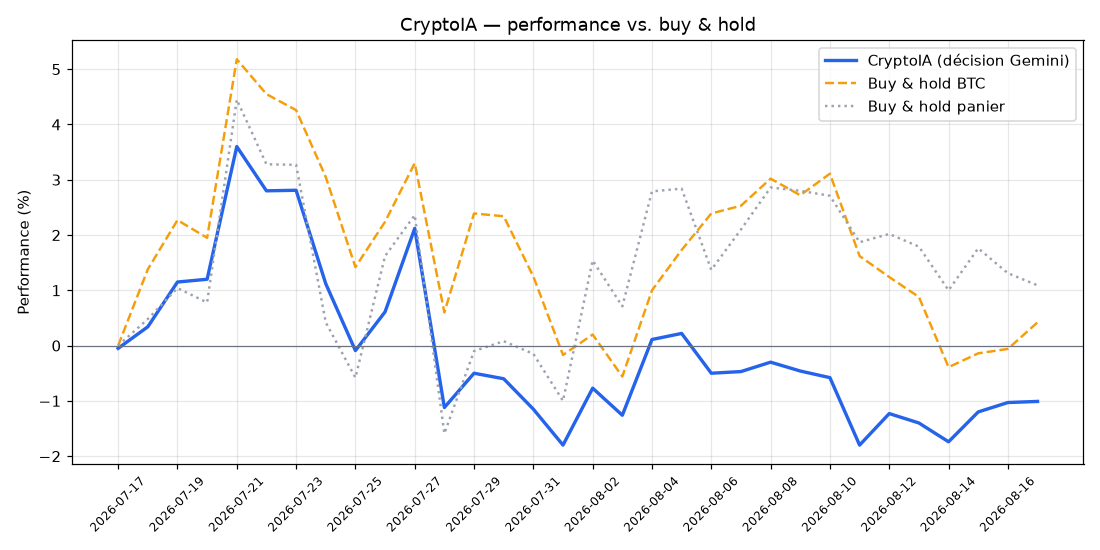
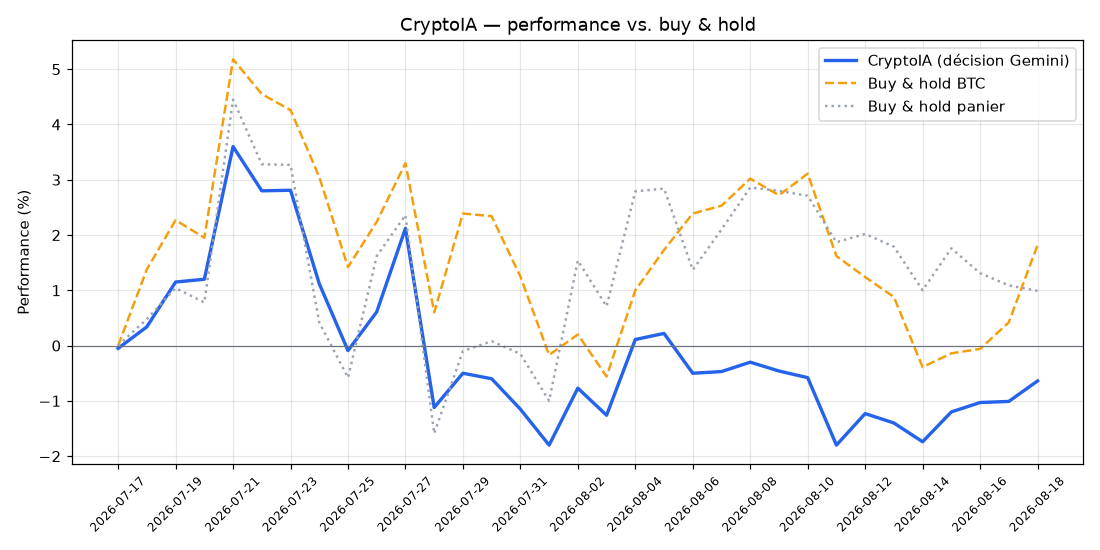
Passage CryptoIA 2026-08-18

diff --git a/daily_report.md b/daily_report.md
@@ -1,28 +1,27 @@
-# 🪙 CryptoIA — rapport du 2026-08-17
+# 🪙 CryptoIA — rapport du 2026-08-18
 
 ## Tableau de bord
-- **NAV** : 989.90 $ (-1.01 % depuis le départ)
-- **Cash** : 347.63 $ | **Frais cumulés** : 7.57 $
-- **Buy & hold BTC** : +0.42 % | **Buy & hold panier** : +1.09 %
-- **Verdict** : ❌ BTC en buy & hold fait mieux (-1.43 points d'écart)
+- **NAV** : 993.64 $ (-0.64 % depuis le départ)
+- **Cash** : 299.92 $ | **Frais cumulés** : 7.92 $
+- **Buy & hold BTC** : +1.82 % | **Buy & hold panier** : +0.99 %
+- **Verdict** : ❌ BTC en buy & hold fait mieux (-2.46 points d'écart)
 
 ## Allocation actuelle
-- Chainlink (LINK) : 25.0 % (247.47 $)
-- Bitcoin (BTC) : 15.0 % (148.51 $)
-- Ethereum (ETH) : 10.0 % (98.96 $)
-- BNB : 9.9 % (97.86 $)
-- Solana (SOL) : 5.0 % (49.46 $)
-- Cash : 35.1 % (347.63 $)
+- Bitcoin (BTC) : 25.0 % (248.40 $)
+- Ethereum (ETH) : 20.0 % (198.70 $)
+- Chainlink (LINK) : 15.0 % (149.10 $)
+- BNB : 9.8 % (97.53 $)
+- Cash : 30.2 % (299.92 $)
 
 ## Décision de l'IA aujourd'hui
 - **Régime perçu** : neutre
-- **Commentaire** : Face à la stagnation du Bitcoin et la chute de nombreux altcoins, une forte réserve de cash (35 %) est privilégiée. L'allocation se concentre stratégiquement sur Chainlink (25 %) pour capturer son fort momentum haussier lié aux narratifs d'adoption institutionnelle, tout en maintenant une exposition défensive sur les leaders du marché (BTC, ETH, BNB).
+- **Commentaire** : Le marché traverse une consolidation étroite face à des signaux macroéconomiques incertains, justifiant une posture prudente avec 30 % de liquidités. Bitcoin et Ethereum restent nos ancrages défensifs, tandis que nous surpondérons tactiquement Chainlink et BNB qui surperforment nettement la moyenne du marché sur 30 jours. Les altcoins souffrant d'une forte dynamique baissière, tels que Polkadot et Cardano, sont rigoureusement exclus.
 
 ## Ordres exécutés (rééquilibrage)
-- ACHAT Ethereum (ETH) — 49.19 $ (frais 0.05 $)
-- ACHAT Solana (SOL) — 49.50 $ (frais 0.05 $)
-- VENTE Bitcoin (BTC) — 50.19 $ (frais 0.05 $)
-- ACHAT Chainlink (LINK) — 50.24 $ (frais 0.05 $)
+- VENTE Chainlink (LINK) — 99.96 $ (frais 0.10 $)
+- ACHAT Ethereum (ETH) — 99.57 $ (frais 0.10 $)
+- ACHAT Bitcoin (BTC) — 97.92 $ (frais 0.10 $)
+- VENTE Solana (SOL) — 49.97 $ (frais 0.05 $)
 
 ---
 *Marche à blanc, aucun argent réel. Rien ici ne constitue un conseil d'investissement.*
